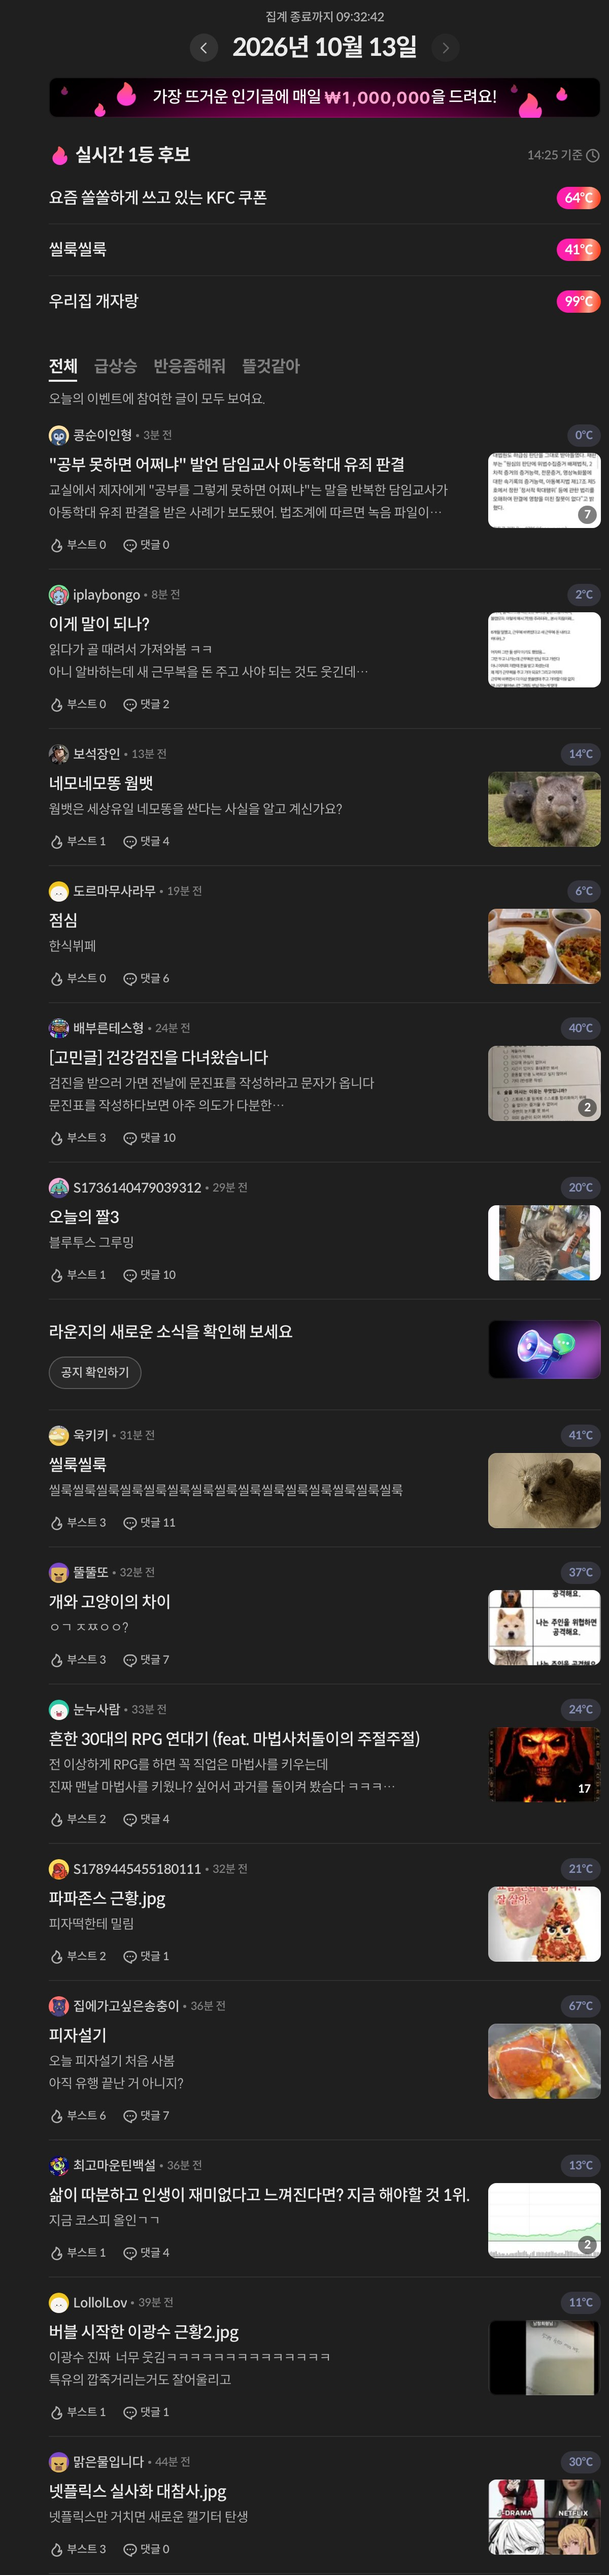
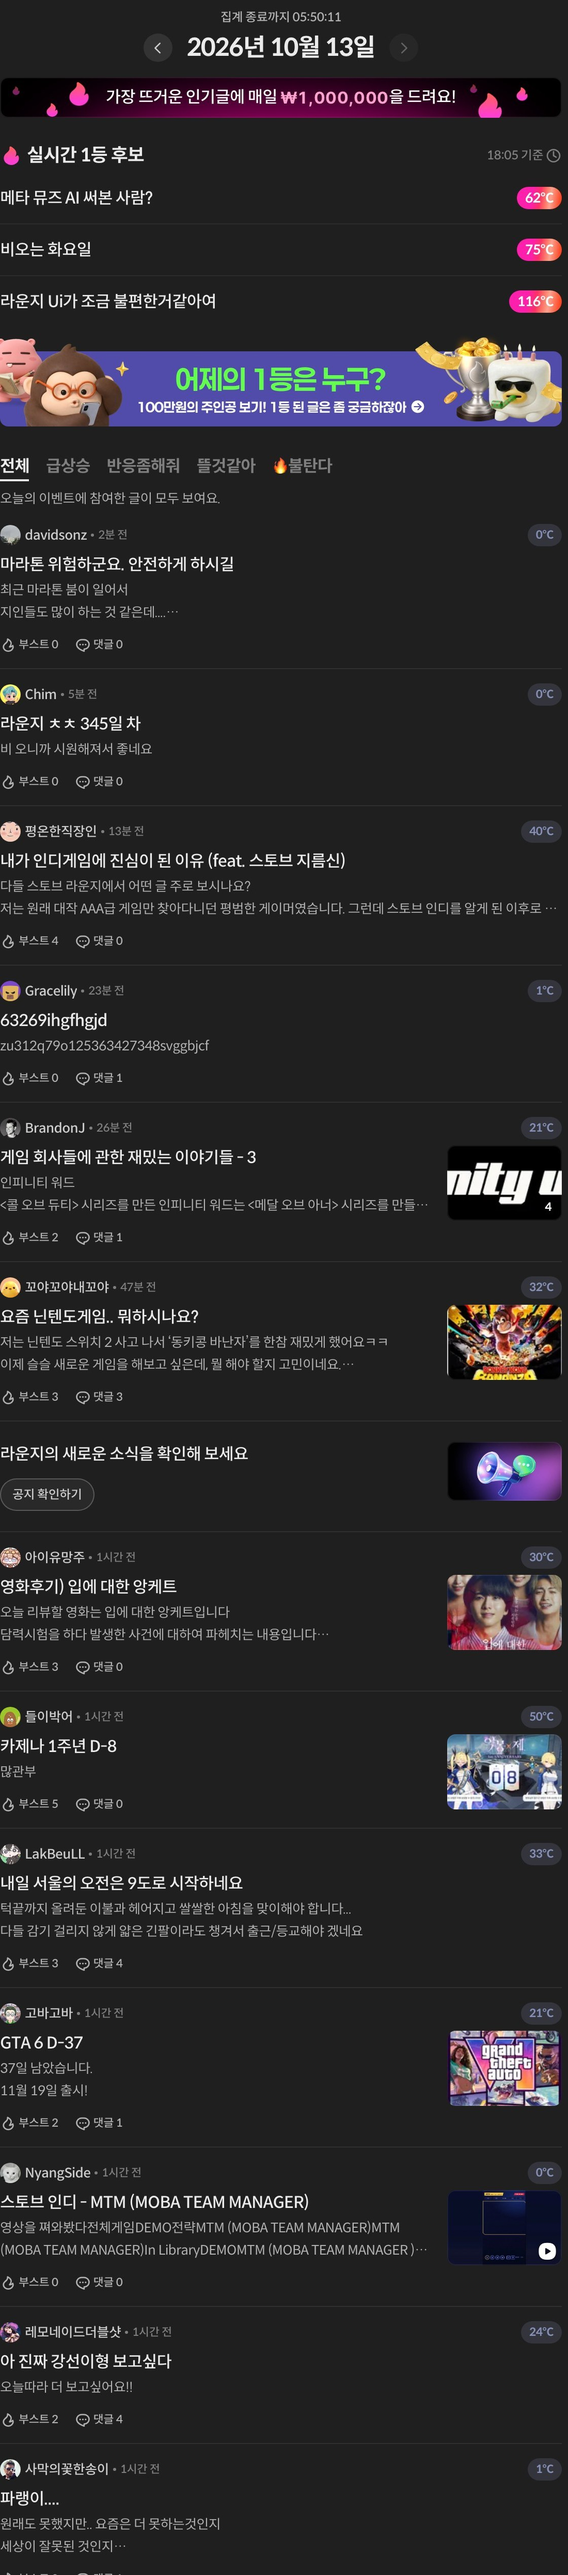
Fix lounge right column padding and update center width to 560
Right column: the source screenshot had ~33/54px of empty margin baked
in on the left/right before the search box actually started, so the
280px-wide column showed the card inset with dead space around it
instead of filling edge-to-edge. Re-cropped tightly to the card's own
content boundaries (x=92-585 of the original screenshot) before
scaling to 280px, confirmed via a drawn reference rectangle that the
card now fills the column exactly.

Center column: width corrected from 520px to 560px per updated spec.
Re-derived from the same full, unclipped raw capture (scaled from
550px to 560px — a ~1.8% stretch instead of the previous ~5.7%
compression to 520), confirmed via drawn rectangles that content
(including the temperature badges) sits fully inside the column with
room to spare, not clipped.

Changed region(s): [[0.0, 0.0312, 1.0, 1.0], [0.3438, 0.0, 0.7812, 0.0623], [0.4375, 0.6542, 0.5312, 0.6853]]

diff --git a/lounge.html b/lounge.html
@@ -20,16 +20,20 @@
        동일 토큰(--background-variant-2)으로 맞춤. 스크롤바도 store.onstove.com
        실제 구조(트랙 2.4rem, 보이는 썸 0.8rem) 그대로 재현 — app-shell.html 참고.
 
-       실제 라운지는 3단 구성(좌: 아이콘 레일 72px / 가운데: 피드 520px /
-       (56px 간격) / 우: 검색·추천 280px — 처음 672px 지점(가운데 600px)
-       → 662px 지점(가운데 590px)까지 갔다가, 실제 네이티브 클라이언트
-       캡처 기준 정확한 값(가운데 520 / 간격 56 / 우측 280)으로 다시 보정함)
-       이고 좌·우 단은 position:sticky로 고정된 채 가운데만 스크롤된다 — 이걸
-       정적 이미지 한 장으로 캡처하면 스크롤할 때 좌우도 같이 밀려 올라가서
-       실제 사이트와 다르게 보임. 그래서 원본 스크린샷에서 가운데 열(72px~
-       592px 지점)만 그대로 잘라내고, 우측 열은 로그인 상태를 반영한 별도
-       스크린샷을 280px로 맞춰 56px 간격을 두고 배치 — 좌·우 이미지에
-       직접 position:sticky를 줘서 실제
+       실제 라운지는 3단 구성 — 좌: 아이콘 레일 72px / (56px 간격) /
+       가운데: 피드 520px / (56px 간격) / 우: 검색·추천 280px.
+       처음엔 원본 스크린샷을 "박스 바깥 경계" 기준(72px~672px 등)으로
+       잘랐는데, 그 박스 안쪽에 자체 padding(가운데 피드는 main 태그에
+       32px, 우측 aside는 24px)이 이미 포함돼 있어서 우리가 또 간격을
+       더하면 이중으로 여백이 생기거나(간격이 너무 벌어짐), 반대로 더
+       좁게 자르면 배지 같은 실제 콘텐츠가 잘려나가는 문제가 있었음.
+       그래서 DOM에서 실제 콘텐츠 박스(배지/검색창이 꽉 차는 안쪽
+       padding box) 자체의 좌표를 직접 재서(가운데 120px~640px=520px
+       폭) 그 "콘텐츠만" 잘라내고, 간격은 우리가 CSS로 깨끗하게 56px씩
+       새로 준다. 좌·우 단은 position:sticky로 고정된 채 가운데만
+       스크롤된다 — 이걸 정적 이미지 한 장으로 캡처하면 스크롤할 때
+       좌우도 같이 밀려 올라가서 실제 사이트와 다르게 보임. 좌·우
+       이미지에 직접 position:sticky를 줘서 실제
        사이트와 동일하게 가운데만 스크롤되게 재현. sticky가 끝까지 붙어
        있으려면 좌·우 열을 감싸는 wrapper가 가운데 열(2536px)과 같은
        높이여야 하는데, align-items:stretch(flex 기본값)에 맡기면 될
@@ -47,18 +51,15 @@
       display: flex;
       flex-direction: row; /* 공통 셸 기본값(column)을 3단 레이아웃용으로 덮어씀 */
     }
-    .lounge-col-center { flex: 0 0 auto; }
+    /* 1단-2단, 2단-3단 간격 둘 다 56px 고정 */
+    .lounge-col-center { flex: 0 0 auto; margin-left: 5.6rem; }
+    .lounge-col-right { flex: 0 0 auto; margin-left: 5.6rem; }
     .lounge-col-left,
-    .lounge-col-right { flex: 0 0 auto; height: 253.6rem; }
-    /* 가운데·우측 열 사이 간격 — 창이 넓어질수록 우측 열이 화면 오른쪽
-       끝에 외따로 떠 보이지 않도록(최소 56px 유지하되, 창이 넓으면 이
-       간격 자체가 늘어나며 우측 열을 오른쪽에 붙여줌) 고정폭 대신
-       flex-grow 스페이서로 처리. */
-    .lounge-col-gap { flex: 1 1 auto; min-width: 5.6rem; }
+    .lounge-col-right { height: 253.6rem; }
     .lounge-col-left img,
     .lounge-col-right img { position: sticky; top: 0; display: block; }
     .lounge-col-left img { width: 7.2rem; }
-    .lounge-col-center img { display: block; width: 60rem; }
+    .lounge-col-center img { display: block; width: 56rem; }
     .lounge-col-right img { width: 28rem; }
 
     .app > .main::-webkit-scrollbar { width: 2.4rem; }
@@ -88,7 +89,6 @@
       <div class="lounge-col-center">
         <img src="assets/lounge-center-dark.jpg" alt="STOVE 라운지 (다크모드 미리보기)" />
       </div>
-      <div class="lounge-col-gap" aria-hidden="true"></div>
       <div class="lounge-col-right">
         <img src="assets/lounge-right-dark.jpg" alt="" aria-hidden="true" />
       </div>
